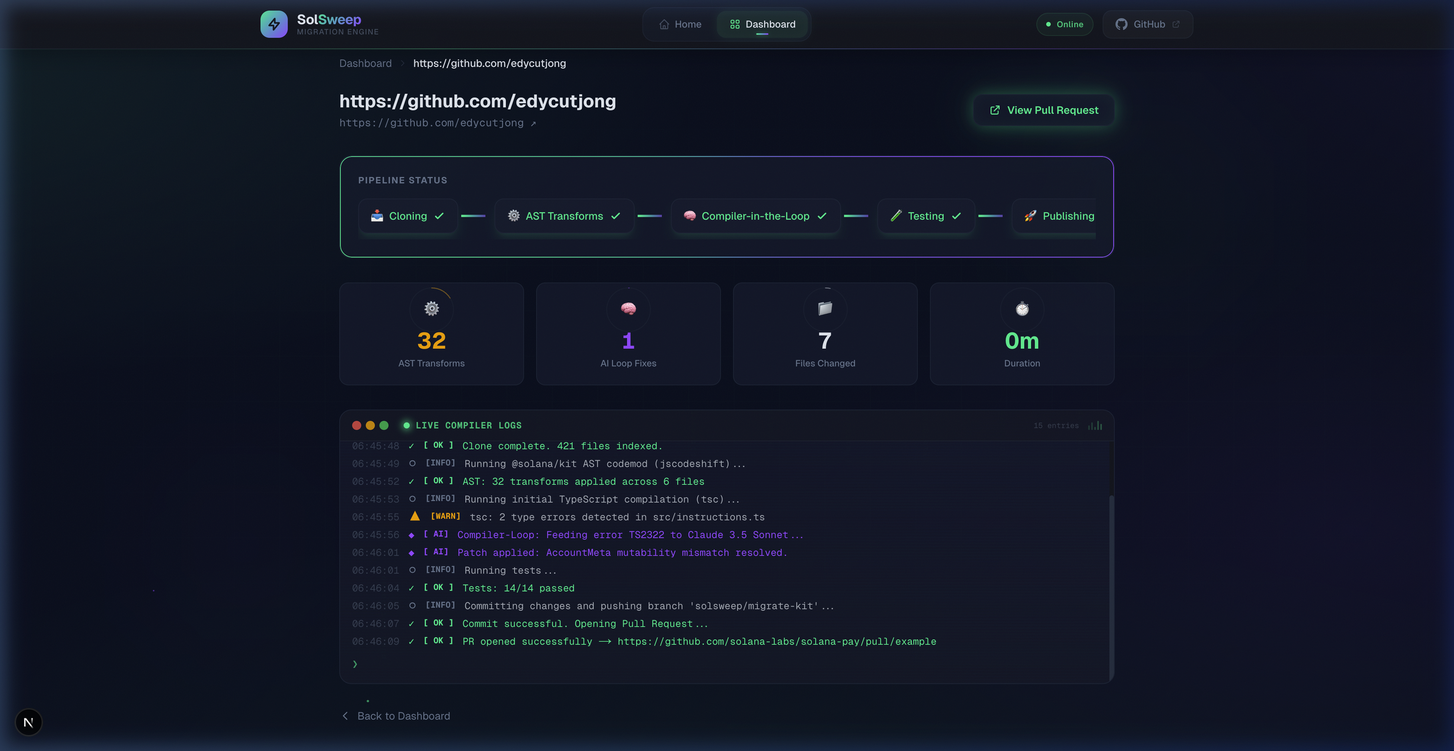
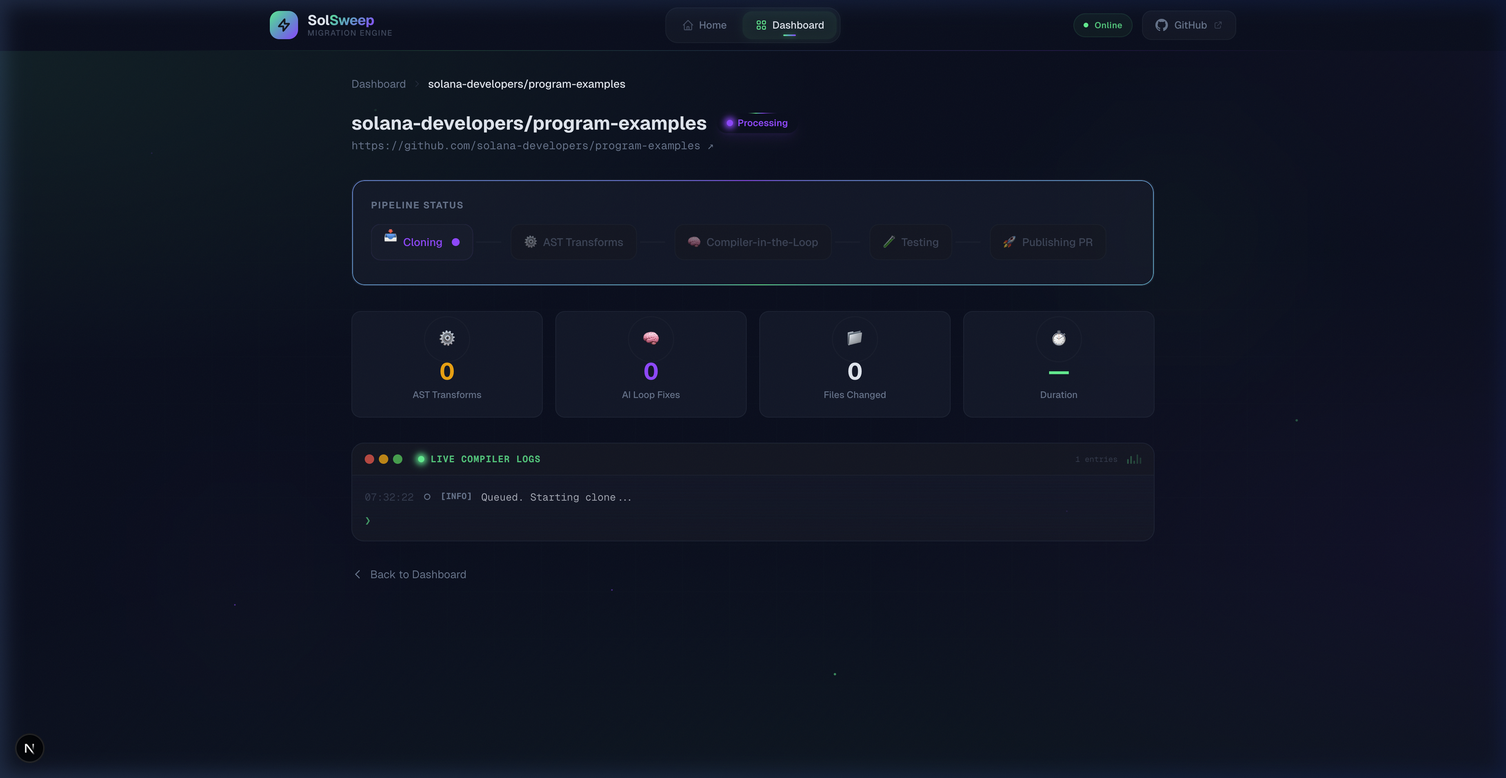
chore: add final demo assets and youtube metadata

diff --git a/src/app/page.tsx b/src/app/page.tsx
@@ -412,9 +412,9 @@ export default function Home() {
             ].map(({ value, suffix, label, color, ringColor }) => (
               <div key={label} className="text-center relative group">
                 {/* Decorative ring */}
-                <div className="relative inline-flex items-center justify-center mx-auto mb-3">
+                <div className="relative flex items-center justify-center mx-auto mb-3 h-24 w-24">
                   <svg
-                    className="absolute h-20 w-20 -rotate-90"
+                    className="absolute inset-0 h-full w-full -rotate-90"
                     viewBox="0 0 100 100"
                   >
                     <circle
@@ -483,28 +483,28 @@ export default function Home() {
                   title: "Clone",
                   desc: "Target repository is cloned and indexed. File graph is mapped for dependency resolution.",
                   color: "from-blue-500 to-cyan-400",
-                  icon: "📥",
+                  icon: <svg className="w-6 h-6 text-white" viewBox="0 0 24 24" fill="none" stroke="currentColor" strokeWidth="2" strokeLinecap="round" strokeLinejoin="round"><path d="M21 15v4a2 2 0 0 1-2 2H5a2 2 0 0 1-2-2v-4"/><polyline points="7 10 12 15 17 10"/><line x1="12" y1="15" x2="12" y2="3"/></svg>,
                 },
                 {
                   step: "02",
                   title: "AST Codemod",
                   desc: "Deterministic ast-grep / Codemod transforms handle 80% of migration patterns: imports, types, method calls.",
                   color: "from-sol-warning to-orange-400",
-                  icon: "⚙",
+                  icon: <svg className="w-6 h-6 text-white" viewBox="0 0 24 24" fill="none" stroke="currentColor" strokeWidth="2" strokeLinecap="round" strokeLinejoin="round"><circle cx="12" cy="12" r="3"/><path d="M19.4 15a1.65 1.65 0 0 0 .33 1.82l.06.06a2 2 0 0 1 0 2.83 2 2 0 0 1-2.83 0l-.06-.06a1.65 1.65 0 0 0-1.82-.33 1.65 1.65 0 0 0-1 1.51V21a2 2 0 0 1-2 2 2 2 0 0 1-2-2v-.09A1.65 1.65 0 0 0 9 19.4a1.65 1.65 0 0 0-1.82.33l-.06.06a2 2 0 0 1-2.83 0 2 2 0 0 1 0-2.83l.06-.06a1.65 1.65 0 0 0 .33-1.82 1.65 1.65 0 0 0-1.51-1H3a2 2 0 0 1-2-2 2 2 0 0 1 2-2h.09A1.65 1.65 0 0 0 4.6 9a1.65 1.65 0 0 0-.33-1.82l-.06-.06a2 2 0 0 1 0-2.83 2 2 0 0 1 2.83 0l.06.06a1.65 1.65 0 0 0 1.82.33H9a1.65 1.65 0 0 0 1-1.51V3a2 2 0 0 1 2-2 2 2 0 0 1 2 2v.09a1.65 1.65 0 0 0 1 1.51 1.65 1.65 0 0 0 1.82-.33l.06-.06a2 2 0 0 1 2.83 0 2 2 0 0 1 0 2.83l-.06.06a1.65 1.65 0 0 0-.33 1.82V9a1.65 1.65 0 0 0 1.51 1H21a2 2 0 0 1 2 2 2 2 0 0 1-2 2h-.09a1.65 1.65 0 0 0-1.51 1z"/></svg>,
                 },
                 {
                   step: "03",
                   title: "Compiler Loop",
                   desc: "tsc errors are fed to Claude. The AI patches edge cases and iterates until the build is green.",
                   color: "from-sol-purple to-pink-500",
-                  icon: "🧠",
+                  icon: <svg className="w-6 h-6 text-white" viewBox="0 0 24 24" fill="none" stroke="currentColor" strokeWidth="2" strokeLinecap="round" strokeLinejoin="round"><path d="M9.5 2A2.5 2.5 0 0 1 12 4.5v15a2.5 2.5 0 0 1-4.96.44 2.5 2.5 0 0 1-2.96-3.08 2.5 2.5 0 0 1-.98-4.36 2.5 2.5 0 0 1 1.9-4.22A2.5 2.5 0 0 1 9.5 2z"/><path d="M14.5 2A2.5 2.5 0 0 0 12 4.5v15a2.5 2.5 0 0 0 4.96.44 2.5 2.5 0 0 0 2.96-3.08 2.5 2.5 0 0 0 .98-4.36 2.5 2.5 0 0 0-1.9-4.22A2.5 2.5 0 0 0 14.5 2z"/></svg>,
                 },
                 {
                   step: "04",
                   title: "Ship PR",
                   desc: "A verified feature branch is pushed and a Pull Request is opened with a full change summary.",
                   color: "from-sol-green to-emerald-400",
-                  icon: "🚀",
+                  icon: <svg className="w-6 h-6 text-white" viewBox="0 0 24 24" fill="none" stroke="currentColor" strokeWidth="2" strokeLinecap="round" strokeLinejoin="round"><path d="M4.5 16.5c-1.5 1.26-2 5-2 5s3.74-.5 5-2c.71-.84.7-2.13-.09-2.91a2.18 2.18 0 0 0-2.91-.09z"/><path d="m12 15-3-3a22 22 0 0 1 2-3.95A12.88 12.88 0 0 1 22 2c0 2.73-2.52 7.73-6 9-.94.34-1.92.54-3 .54-1.08 0-2.06-.2-3-.54Z"/><path d="m9 11.5 1.5 1.5"/></svg>,
                 },
               ].map(({ step, title, desc, color, icon }, idx) => (
                 <div key={step} className="card-3d" style={{ animationDelay: `${idx * 120}ms` }}>
@@ -562,12 +562,12 @@ export default function Home() {
             </h2>
             <div className="grid grid-cols-2 sm:grid-cols-3 lg:grid-cols-6 gap-4">
               {[
-                { name: "Next.js 16", icon: "▲", bg: "from-white/10 to-white/5" },
-                { name: "React 19", icon: "⚛", bg: "from-blue-500/10 to-cyan-500/5" },
-                { name: "TypeScript", icon: "TS", bg: "from-blue-500/10 to-blue-700/5" },
-                { name: "Supabase", icon: "⚡", bg: "from-emerald-500/10 to-emerald-700/5" },
-                { name: "ast-grep", icon: "🔧", bg: "from-sol-warning/10 to-orange-500/5" },
-                { name: "Claude", icon: "🧠", bg: "from-sol-purple/10 to-pink-500/5" },
+                { name: "Next.js 16", icon: <svg className="w-8 h-8 mx-auto" viewBox="0 0 24 24" fill="currentColor"><path d="M12 2L2 22h20L12 2zm0 3.5l7 14H5l7-14z"/></svg>, bg: "from-white/10 to-white/5" },
+                { name: "React 19", icon: <svg className="w-8 h-8 mx-auto" viewBox="0 0 24 24" fill="none" stroke="currentColor" strokeWidth="2"><path d="M12 22c5.5 0 10-4.5 10-10S17.5 2 12 2 2 6.5 2 12s4.5 10 10 10zM12 2a10 10 0 0 1 10 10 10 10 0 0 1-10 10A10 10 0 0 1 2 12 10 10 0 0 1 12 2Z"/><ellipse cx="12" cy="12" rx="4" ry="10" transform="rotate(45 12 12)"/><ellipse cx="12" cy="12" rx="4" ry="10" transform="rotate(-45 12 12)"/><circle cx="12" cy="12" r="2"/></svg>, bg: "from-blue-500/10 to-cyan-500/5" },
+                { name: "TypeScript", icon: <svg className="w-8 h-8 mx-auto" viewBox="0 0 24 24" fill="currentColor"><path d="M2 2h20v20H2V2zm10.5 10.5v-3h-3v-1.5h7.5v1.5h-3v7.5h-1.5v-4.5zm-5 4.5c-2.5 0-3.5-1.5-3.5-3.5h1.5c0 1.5.5 2 2 2s2-.5 2-1.5c0-2-3.5-1.5-3.5-4s1.5-3.5 3.5-3.5c2 0 3.5 1 3.5 3h-1.5c0-1-1-1.5-2-1.5s-2 .5-2 1.5c0 2 3.5 1.5 3.5 4s-1.5 3.5-3.5 3.5z"/></svg>, bg: "from-blue-500/10 to-blue-700/5" },
+                { name: "Supabase", icon: <svg className="w-8 h-8 mx-auto" viewBox="0 0 24 24" fill="currentColor"><path d="M12 2C6.48 2 2 6.48 2 12s4.48 10 10 10 10-4.48 10-10S17.52 2 12 2zm1 15h-2v-4H7l6-7v4h4l-6 7z"/></svg>, bg: "from-emerald-500/10 to-emerald-700/5" },
+                { name: "ast-grep", icon: <svg className="w-8 h-8 mx-auto" viewBox="0 0 24 24" fill="none" stroke="currentColor" strokeWidth="2" strokeLinecap="round" strokeLinejoin="round"><path d="M14.7 6.3a1 1 0 0 0 0 1.4l1.6 1.6a1 1 0 0 0 1.4 0l3.77-3.77a6 6 0 0 1-7.94 7.94l-6.91 6.91a2.12 2.12 0 0 1-3-3l6.91-6.91a6 6 0 0 1 7.94-7.94l-3.76 3.76z"/></svg>, bg: "from-sol-warning/10 to-orange-500/5" },
+                { name: "Claude", icon: <svg className="w-8 h-8 mx-auto" viewBox="0 0 24 24" fill="none" stroke="currentColor" strokeWidth="2" strokeLinecap="round" strokeLinejoin="round"><path d="M9.5 2A2.5 2.5 0 0 1 12 4.5v15a2.5 2.5 0 0 1-4.96.44 2.5 2.5 0 0 1-2.96-3.08 2.5 2.5 0 0 1-.98-4.36 2.5 2.5 0 0 1 1.9-4.22A2.5 2.5 0 0 1 9.5 2z"/><path d="M14.5 2A2.5 2.5 0 0 0 12 4.5v15a2.5 2.5 0 0 0 4.96.44 2.5 2.5 0 0 0 2.96-3.08 2.5 2.5 0 0 0 .98-4.36 2.5 2.5 0 0 0-1.9-4.22A2.5 2.5 0 0 0 14.5 2z"/></svg>, bg: "from-sol-purple/10 to-pink-500/5" },
               ].map(({ name, icon, bg }) => (
                 <div
                   key={name}

diff --git a/src/components/StatsBar.tsx b/src/components/StatsBar.tsx
@@ -38,10 +38,10 @@ export default function StatsBar({
   totalFiles: number;
 }) {
   const stats = [
-    { label: "PRs Opened", value: totalPRs, color: "text-sol-green", icon: "🔀", glow: "shadow-sol-green/10" },
-    { label: "AST Transforms", value: totalAstFixes, color: "text-sol-warning", icon: "⚙", glow: "shadow-sol-warning/10" },
-    { label: "AI Fixes", value: totalAiFixes, color: "text-sol-purple", icon: "🧠", glow: "shadow-sol-purple/10" },
-    { label: "Files Modified", value: totalFiles, color: "text-foreground", icon: "📁", glow: "shadow-white/5" },
+    { label: "PRs Opened", value: totalPRs, color: "text-sol-green", icon: <svg className="w-5 h-5" viewBox="0 0 24 24" fill="none" stroke="currentColor" strokeWidth="2" strokeLinecap="round" strokeLinejoin="round"><path d="M6 3v12"/><circle cx="18" cy="6" r="3"/><circle cx="6" cy="18" r="3"/><path d="M18 9a9 9 0 0 1-9 9"/></svg>, glow: "shadow-sol-green/10" },
+    { label: "AST Transforms", value: totalAstFixes, color: "text-sol-warning", icon: <svg className="w-5 h-5" viewBox="0 0 24 24" fill="none" stroke="currentColor" strokeWidth="2" strokeLinecap="round" strokeLinejoin="round"><circle cx="12" cy="12" r="3"/><path d="M19.4 15a1.65 1.65 0 0 0 .33 1.82l.06.06a2 2 0 0 1 0 2.83 2 2 0 0 1-2.83 0l-.06-.06a1.65 1.65 0 0 0-1.82-.33 1.65 1.65 0 0 0-1 1.51V21a2 2 0 0 1-2 2 2 2 0 0 1-2-2v-.09A1.65 1.65 0 0 0 9 19.4a1.65 1.65 0 0 0-1.82.33l-.06.06a2 2 0 0 1-2.83 0 2 2 0 0 1 0-2.83l.06-.06a1.65 1.65 0 0 0 .33-1.82 1.65 1.65 0 0 0-1.51-1H3a2 2 0 0 1-2-2 2 2 0 0 1 2-2h.09A1.65 1.65 0 0 0 4.6 9a1.65 1.65 0 0 0-.33-1.82l-.06-.06a2 2 0 0 1 0-2.83 2 2 0 0 1 2.83 0l.06.06a1.65 1.65 0 0 0 1.82.33H9a1.65 1.65 0 0 0 1-1.51V3a2 2 0 0 1 2-2 2 2 0 0 1 2 2v.09a1.65 1.65 0 0 0 1 1.51 1.65 1.65 0 0 0 1.82-.33l.06-.06a2 2 0 0 1 2.83 0 2 2 0 0 1 0 2.83l-.06.06a1.65 1.65 0 0 0-.33 1.82V9a1.65 1.65 0 0 0 1.51 1H21a2 2 0 0 1 2 2 2 2 0 0 1-2 2h-.09a1.65 1.65 0 0 0-1.51 1z"/></svg>, glow: "shadow-sol-warning/10" },
+    { label: "AI Fixes", value: totalAiFixes, color: "text-sol-purple", icon: <svg className="w-5 h-5" viewBox="0 0 24 24" fill="none" stroke="currentColor" strokeWidth="2" strokeLinecap="round" strokeLinejoin="round"><path d="M9.5 2A2.5 2.5 0 0 1 12 4.5v15a2.5 2.5 0 0 1-4.96.44 2.5 2.5 0 0 1-2.96-3.08 2.5 2.5 0 0 1-.98-4.36 2.5 2.5 0 0 1 1.9-4.22A2.5 2.5 0 0 1 9.5 2z"/><path d="M14.5 2A2.5 2.5 0 0 0 12 4.5v15a2.5 2.5 0 0 0 4.96.44 2.5 2.5 0 0 0 2.96-3.08 2.5 2.5 0 0 0 .98-4.36 2.5 2.5 0 0 0-1.9-4.22A2.5 2.5 0 0 0 14.5 2z"/></svg>, glow: "shadow-sol-purple/10" },
+    { label: "Files Modified", value: totalFiles, color: "text-foreground", icon: <svg className="w-5 h-5" viewBox="0 0 24 24" fill="none" stroke="currentColor" strokeWidth="2" strokeLinecap="round" strokeLinejoin="round"><path d="M22 19a2 2 0 0 1-2 2H4a2 2 0 0 1-2-2V5a2 2 0 0 1 2-2h5l2 3h9a2 2 0 0 1 2 2z"/></svg>, glow: "shadow-white/5" },
   ];
 
   return (

diff --git a/scripts/record-broll.ts b/scripts/record-broll.ts
@@ -1,4 +1,5 @@
-import { chromium, Page } from 'playwright';
+import { chromium } from 'playwright';
+import type { Page } from 'playwright';
 import path from 'path';
 import fs from 'fs';
 
@@ -33,12 +34,12 @@ async function runBRoll() {
   await page.waitForTimeout(1000);
 
   console.log('Navigating to Dashboard...');
-  await page.click('text="Launch Dashboard →"');
+  await page.click('a[href="/dashboard"]');
   await page.waitForLoadState('networkidle');
   await page.waitForTimeout(2000);
 
   console.log('Entering repo URL...');
-  await typeLikeUser(page, 'input[placeholder*="GitHub"]', 'https://github.com/solana-labs/solana-pay');
+  await typeLikeUser(page, '#sweep-input', 'https://github.com/solana-labs/solana-pay');
   await page.waitForTimeout(1000);
   await page.keyboard.press('Enter');
   

diff --git a/scripts/record-demo.ts b/scripts/record-demo.ts
@@ -35,10 +35,10 @@ async function runDemo() {
 
   // Timeline
   await waitTo(5);
-  await page.click('text="Launch Dashboard →"');
+  await page.click('a[href="/dashboard"]');
   
   await waitTo(15);
-  await page.fill('input[placeholder*="GitHub"]', 'https://github.com/solana-labs/solana-pay');
+  await page.fill('#sweep-input', 'https://github.com/solana-labs/solana-pay');
   await page.keyboard.press('Enter');
   
   await waitTo(60);

diff --git a/src/app/globals.css b/src/app/globals.css
@@ -798,6 +798,11 @@ body {
   scrollbar-width: none;
   -ms-overflow-style: none;
 }
+
+/* Hide Next.js dev indicator during screenshots */
+nextjs-portal {
+  display: none !important;
+}
 .scrollbar-none::-webkit-scrollbar {
   display: none;
 }

diff --git a/README.md b/README.md
@@ -198,6 +198,32 @@ solsweep/
 
 ---
 
+## 📺 YouTube Metadata
+
+**Title:** SolSweep: Zero-Hassle Solana Wallet Cleanup | DoraHacks Boring AI Hackathon 2026
+
+**Description:**
+```text
+SolSweep is the ultimate zero-hassle cleanup tool for Solana developers. Clear out empty token accounts, burn scam NFTs, and reclaim your SOL rent instantly. 
+
+With a sleek neon cybernetic aesthetic and one-click operations, keeping your wallet pristine has never looked so good. Connect your wallet and start sweeping today!
+
+Built for the DoraHacks Boring AI Hackathon 2026.
+
+🔗 Live Demo: https://solsweep.edycu.dev/
+💻 Source Code: https://github.com/edycutjong/solsweep
+
+#Solana #Web3 #Hackathon #DoraHacks #BoringAI #SolSweep
+```
+
+**Thumbnail (16:9 format):**
+For the YouTube thumbnail, you can use the high-fidelity landing page screenshot formatted to a standard 1280x720 16:9 layout.
+<p align="center">
+  <img src="docs/screenshots/landing-page.png" alt="SolSweep Video Thumbnail" width="640" />
+</p>
+
+---
+
 ## 📄 License
 
 MIT © 2026 [Edy Cu](https://github.com/edycutjong)
